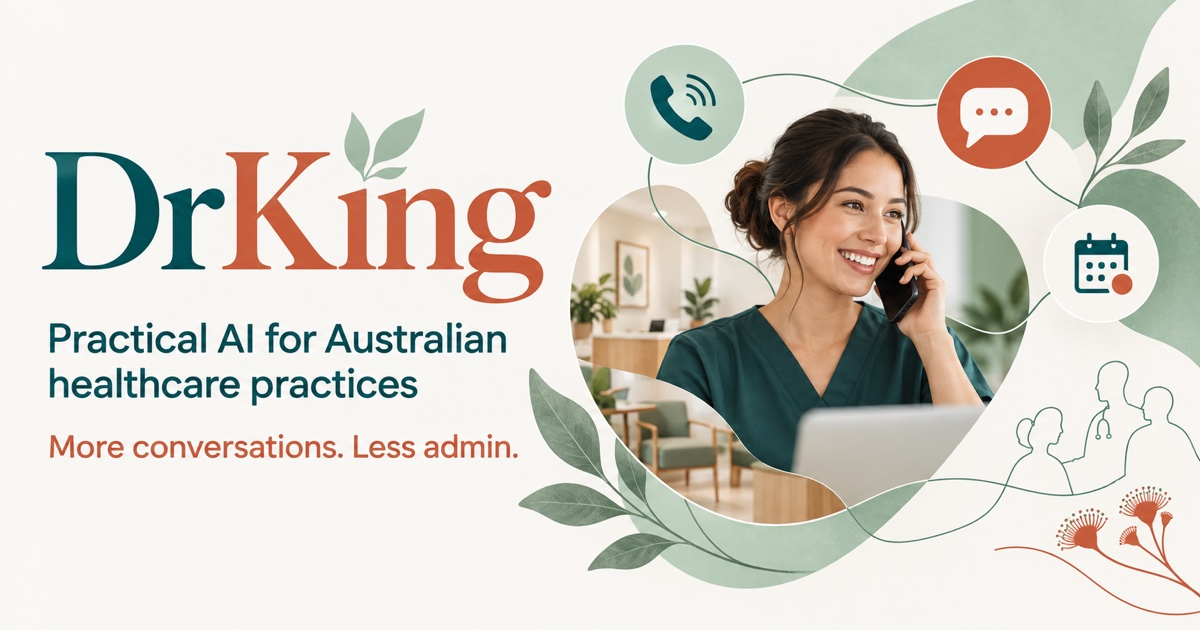
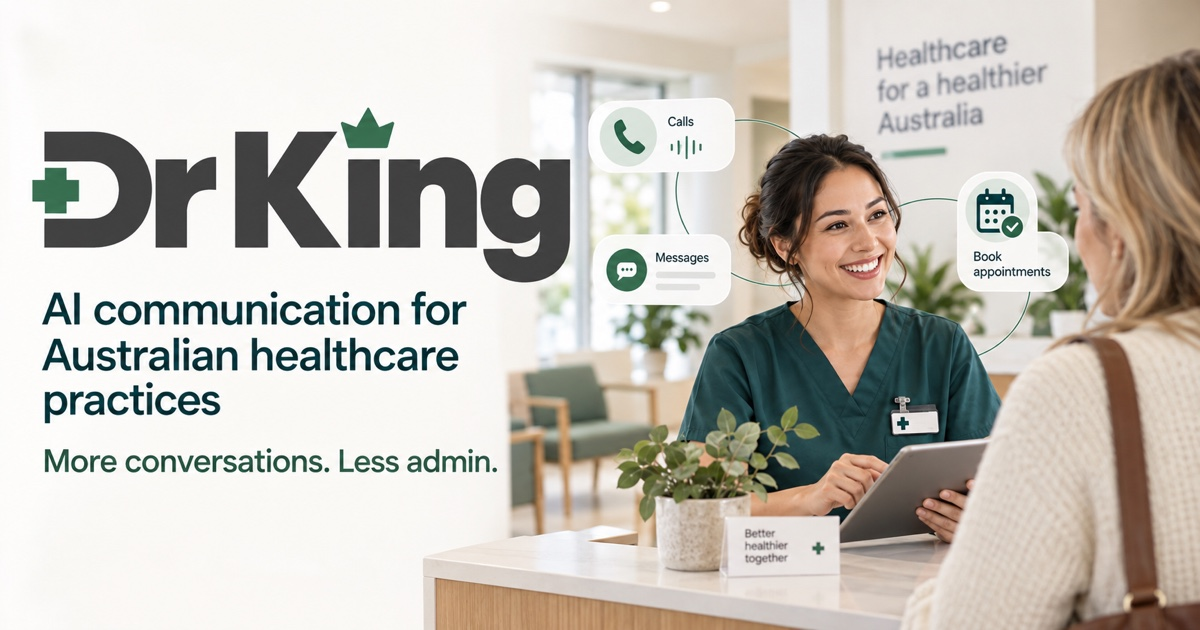
Refresh medical social sharing image

diff --git a/after-hours.html b/after-hours.html
@@ -50,10 +50,10 @@ header{padding:24px 0 0}.nav{display:flex;align-items:center;justify-content:spa
 <meta property="og:image:type" content="image/jpeg">
 <meta property="og:image:width" content="1200">
 <meta property="og:image:height" content="630">
-<meta property="og:image:alt" content="DrKing — Practical AI for Australian healthcare practices. More conversations. Less admin.">
+<meta property="og:image:alt" content="DrKing AI communication for Australian healthcare practices — a clinician welcoming a patient with calls, messages and appointment booking.">
 <meta name="twitter:card" content="summary_large_image">
 <meta name="twitter:image" content="https://drking.ai/assets/drking-social-share.jpg">
-<meta name="twitter:image:alt" content="DrKing — Practical AI for Australian healthcare practices. More conversations. Less admin.">
+<meta name="twitter:image:alt" content="DrKing AI communication for Australian healthcare practices — a clinician welcoming a patient with calls, messages and appointment booking.">
 <link rel="preconnect" href="https://fonts.googleapis.com">
 <link rel="preconnect" href="https://fonts.gstatic.com" crossorigin>
 <link href="https://fonts.googleapis.com/css2?family=Newsreader:ital,wght@0,300..600;1,300..600&amp;display=swap" rel="stylesheet">

diff --git a/appointment-reminders.html b/appointment-reminders.html
@@ -55,10 +55,10 @@ header{padding-top:24px;position:relative;z-index:20}.nav{width:min(1280px,calc(
 <meta property="og:image:type" content="image/jpeg">
 <meta property="og:image:width" content="1200">
 <meta property="og:image:height" content="630">
-<meta property="og:image:alt" content="DrKing — Practical AI for Australian healthcare practices. More conversations. Less admin.">
+<meta property="og:image:alt" content="DrKing AI communication for Australian healthcare practices — a clinician welcoming a patient with calls, messages and appointment booking.">
 <meta name="twitter:card" content="summary_large_image">
 <meta name="twitter:image" content="https://drking.ai/assets/drking-social-share.jpg">
-<meta name="twitter:image:alt" content="DrKing — Practical AI for Australian healthcare practices. More conversations. Less admin.">
+<meta name="twitter:image:alt" content="DrKing AI communication for Australian healthcare practices — a clinician welcoming a patient with calls, messages and appointment booking.">
 <link rel="preconnect" href="https://fonts.googleapis.com">
 <link rel="preconnect" href="https://fonts.gstatic.com" crossorigin>
 <link href="https://fonts.googleapis.com/css2?family=Newsreader:ital,wght@0,300..600;1,300..600&amp;display=swap" rel="stylesheet">

diff --git a/index.html b/index.html
@@ -67,10 +67,10 @@ footer{background:#EBEEE6;padding:43px 0 24px}.footer-top{display:grid;grid-temp
 <meta property="og:image:type" content="image/jpeg">
 <meta property="og:image:width" content="1200">
 <meta property="og:image:height" content="630">
-<meta property="og:image:alt" content="DrKing — Practical AI for Australian healthcare practices. More conversations. Less admin.">
+<meta property="og:image:alt" content="DrKing AI communication for Australian healthcare practices — a clinician welcoming a patient with calls, messages and appointment booking.">
 <meta name="twitter:card" content="summary_large_image">
 <meta name="twitter:image" content="https://drking.ai/assets/drking-social-share.jpg">
-<meta name="twitter:image:alt" content="DrKing — Practical AI for Australian healthcare practices. More conversations. Less admin.">
+<meta name="twitter:image:alt" content="DrKing AI communication for Australian healthcare practices — a clinician welcoming a patient with calls, messages and appointment booking.">
 <link rel="preconnect" href="https://fonts.googleapis.com">
 <link rel="preconnect" href="https://fonts.gstatic.com" crossorigin>
 <link href="https://fonts.googleapis.com/css2?family=Newsreader:ital,wght@0,300..600;1,300..600&amp;display=swap" rel="stylesheet">

diff --git a/lead-management.html b/lead-management.html
@@ -70,10 +70,10 @@ header{position:relative;height:119px;z-index:30}.nav-shell{position:absolute;to
 <meta property="og:image:type" content="image/jpeg">
 <meta property="og:image:width" content="1200">
 <meta property="og:image:height" content="630">
-<meta property="og:image:alt" content="DrKing — Practical AI for Australian healthcare practices. More conversations. Less admin.">
+<meta property="og:image:alt" content="DrKing AI communication for Australian healthcare practices — a clinician welcoming a patient with calls, messages and appointment booking.">
 <meta name="twitter:card" content="summary_large_image">
 <meta name="twitter:image" content="https://drking.ai/assets/drking-social-share.jpg">
-<meta name="twitter:image:alt" content="DrKing — Practical AI for Australian healthcare practices. More conversations. Less admin.">
+<meta name="twitter:image:alt" content="DrKing AI communication for Australian healthcare practices — a clinician welcoming a patient with calls, messages and appointment booking.">
 <link rel="preconnect" href="https://fonts.googleapis.com">
 <link rel="preconnect" href="https://fonts.gstatic.com" crossorigin>
 <link href="https://fonts.googleapis.com/css2?family=Newsreader:ital,wght@0,300..600;1,300..600&amp;display=swap" rel="stylesheet">

diff --git a/multi-location-chaos.html b/multi-location-chaos.html
@@ -53,10 +53,10 @@ header{position:relative;z-index:20;padding-top:25px}.nav{max-width:1240px;margi
 <meta property="og:image:type" content="image/jpeg">
 <meta property="og:image:width" content="1200">
 <meta property="og:image:height" content="630">
-<meta property="og:image:alt" content="DrKing — Practical AI for Australian healthcare practices. More conversations. Less admin.">
+<meta property="og:image:alt" content="DrKing AI communication for Australian healthcare practices — a clinician welcoming a patient with calls, messages and appointment booking.">
 <meta name="twitter:card" content="summary_large_image">
 <meta name="twitter:image" content="https://drking.ai/assets/drking-social-share.jpg">
-<meta name="twitter:image:alt" content="DrKing — Practical AI for Australian healthcare practices. More conversations. Less admin.">
+<meta name="twitter:image:alt" content="DrKing AI communication for Australian healthcare practices — a clinician welcoming a patient with calls, messages and appointment booking.">
 <link rel="preconnect" href="https://fonts.googleapis.com">
 <link rel="preconnect" href="https://fonts.gstatic.com" crossorigin>
 <link href="https://fonts.googleapis.com/css2?family=Newsreader:ital,wght@0,300..600;1,300..600&amp;display=swap" rel="stylesheet">

diff --git a/vs-call-answering.html b/vs-call-answering.html
@@ -67,10 +67,10 @@ header{position:relative;z-index:20;padding-top:25px}.nav{max-width:1280px;width
 <meta property="og:image:type" content="image/jpeg">
 <meta property="og:image:width" content="1200">
 <meta property="og:image:height" content="630">
-<meta property="og:image:alt" content="DrKing — Practical AI for Australian healthcare practices. More conversations. Less admin.">
+<meta property="og:image:alt" content="DrKing AI communication for Australian healthcare practices — a clinician welcoming a patient with calls, messages and appointment booking.">
 <meta name="twitter:card" content="summary_large_image">
 <meta name="twitter:image" content="https://drking.ai/assets/drking-social-share.jpg">
-<meta name="twitter:image:alt" content="DrKing — Practical AI for Australian healthcare practices. More conversations. Less admin.">
+<meta name="twitter:image:alt" content="DrKing AI communication for Australian healthcare practices — a clinician welcoming a patient with calls, messages and appointment booking.">
 <link rel="preconnect" href="https://fonts.googleapis.com">
 <link rel="preconnect" href="https://fonts.gstatic.com" crossorigin>
 <link href="https://fonts.googleapis.com/css2?family=Newsreader:ital,wght@0,300..600;1,300..600&amp;display=swap" rel="stylesheet">

diff --git a/allied-health.html b/allied-health.html
@@ -175,10 +175,10 @@
 <meta property="og:image:type" content="image/jpeg">
 <meta property="og:image:width" content="1200">
 <meta property="og:image:height" content="630">
-<meta property="og:image:alt" content="DrKing — Practical AI for Australian healthcare practices. More conversations. Less admin.">
+<meta property="og:image:alt" content="DrKing AI communication for Australian healthcare practices — a clinician welcoming a patient with calls, messages and appointment booking.">
 <meta name="twitter:card" content="summary_large_image">
 <meta name="twitter:image" content="https://drking.ai/assets/drking-social-share.jpg">
-<meta name="twitter:image:alt" content="DrKing — Practical AI for Australian healthcare practices. More conversations. Less admin.">
+<meta name="twitter:image:alt" content="DrKing AI communication for Australian healthcare practices — a clinician welcoming a patient with calls, messages and appointment booking.">
 <link rel="preconnect" href="https://fonts.googleapis.com">
 <link rel="preconnect" href="https://fonts.gstatic.com" crossorigin>
 <link href="https://fonts.googleapis.com/css2?family=Newsreader:ital,wght@0,300..600;1,300..600&amp;display=swap" rel="stylesheet">

diff --git a/about.html b/about.html
@@ -47,10 +47,10 @@
 <meta property="og:image:type" content="image/jpeg">
 <meta property="og:image:width" content="1200">
 <meta property="og:image:height" content="630">
-<meta property="og:image:alt" content="DrKing — Practical AI for Australian healthcare practices. More conversations. Less admin.">
+<meta property="og:image:alt" content="DrKing AI communication for Australian healthcare practices — a clinician welcoming a patient with calls, messages and appointment booking.">
 <meta name="twitter:card" content="summary_large_image">
 <meta name="twitter:image" content="https://drking.ai/assets/drking-social-share.jpg">
-<meta name="twitter:image:alt" content="DrKing — Practical AI for Australian healthcare practices. More conversations. Less admin.">
+<meta name="twitter:image:alt" content="DrKing AI communication for Australian healthcare practices — a clinician welcoming a patient with calls, messages and appointment booking.">
 <link rel="preconnect" href="https://fonts.googleapis.com">
 <link rel="preconnect" href="https://fonts.gstatic.com" crossorigin>
 <link href="https://fonts.googleapis.com/css2?family=Newsreader:ital,wght@0,300..600;1,300..600&amp;display=swap" rel="stylesheet">

diff --git a/admin-overhead.html b/admin-overhead.html
@@ -52,10 +52,10 @@
 <meta property="og:image:type" content="image/jpeg">
 <meta property="og:image:width" content="1200">
 <meta property="og:image:height" content="630">
-<meta property="og:image:alt" content="DrKing — Practical AI for Australian healthcare practices. More conversations. Less admin.">
+<meta property="og:image:alt" content="DrKing AI communication for Australian healthcare practices — a clinician welcoming a patient with calls, messages and appointment booking.">
 <meta name="twitter:card" content="summary_large_image">
 <meta name="twitter:image" content="https://drking.ai/assets/drking-social-share.jpg">
-<meta name="twitter:image:alt" content="DrKing — Practical AI for Australian healthcare practices. More conversations. Less admin.">
+<meta name="twitter:image:alt" content="DrKing AI communication for Australian healthcare practices — a clinician welcoming a patient with calls, messages and appointment booking.">
 <link rel="preconnect" href="https://fonts.googleapis.com">
 <link rel="preconnect" href="https://fonts.gstatic.com" crossorigin>
 <link href="https://fonts.googleapis.com/css2?family=Newsreader:ital,wght@0,300..600;1,300..600&amp;display=swap" rel="stylesheet">

diff --git a/aged-care.html b/aged-care.html
@@ -47,10 +47,10 @@
 <meta property="og:image:type" content="image/jpeg">
 <meta property="og:image:width" content="1200">
 <meta property="og:image:height" content="630">
-<meta property="og:image:alt" content="DrKing — Practical AI for Australian healthcare practices. More conversations. Less admin.">
+<meta property="og:image:alt" content="DrKing AI communication for Australian healthcare practices — a clinician welcoming a patient with calls, messages and appointment booking.">
 <meta name="twitter:card" content="summary_large_image">
 <meta name="twitter:image" content="https://drking.ai/assets/drking-social-share.jpg">
-<meta name="twitter:image:alt" content="DrKing — Practical AI for Australian healthcare practices. More conversations. Less admin.">
+<meta name="twitter:image:alt" content="DrKing AI communication for Australian healthcare practices — a clinician welcoming a patient with calls, messages and appointment booking.">
 <link rel="preconnect" href="https://fonts.googleapis.com">
 <link rel="preconnect" href="https://fonts.gstatic.com" crossorigin>
 <link href="https://fonts.googleapis.com/css2?family=Newsreader:ital,wght@0,300..600;1,300..600&amp;display=swap" rel="stylesheet">

diff --git a/ai-chat.html b/ai-chat.html
@@ -50,10 +50,10 @@
 <meta property="og:image:type" content="image/jpeg">
 <meta property="og:image:width" content="1200">
 <meta property="og:image:height" content="630">
-<meta property="og:image:alt" content="DrKing — Practical AI for Australian healthcare practices. More conversations. Less admin.">
+<meta property="og:image:alt" content="DrKing AI communication for Australian healthcare practices — a clinician welcoming a patient with calls, messages and appointment booking.">
 <meta name="twitter:card" content="summary_large_image">
 <meta name="twitter:image" content="https://drking.ai/assets/drking-social-share.jpg">
-<meta name="twitter:image:alt" content="DrKing — Practical AI for Australian healthcare practices. More conversations. Less admin.">
+<meta name="twitter:image:alt" content="DrKing AI communication for Australian healthcare practices — a clinician welcoming a patient with calls, messages and appointment booking.">
 <link rel="preconnect" href="https://fonts.googleapis.com">
 <link rel="preconnect" href="https://fonts.gstatic.com" crossorigin>
 <link href="https://fonts.googleapis.com/css2?family=Newsreader:ital,wght@0,300..600;1,300..600&amp;display=swap" rel="stylesheet">

diff --git a/ai-voice-receptionist.html b/ai-voice-receptionist.html
@@ -59,10 +59,10 @@
 <meta property="og:image:type" content="image/jpeg">
 <meta property="og:image:width" content="1200">
 <meta property="og:image:height" content="630">
-<meta property="og:image:alt" content="DrKing — Practical AI for Australian healthcare practices. More conversations. Less admin.">
+<meta property="og:image:alt" content="DrKing AI communication for Australian healthcare practices — a clinician welcoming a patient with calls, messages and appointment booking.">
 <meta name="twitter:card" content="summary_large_image">
 <meta name="twitter:image" content="https://drking.ai/assets/drking-social-share.jpg">
-<meta name="twitter:image:alt" content="DrKing — Practical AI for Australian healthcare practices. More conversations. Less admin.">
+<meta name="twitter:image:alt" content="DrKing AI communication for Australian healthcare practices — a clinician welcoming a patient with calls, messages and appointment booking.">
 <link rel="preconnect" href="https://fonts.googleapis.com">
 <link rel="preconnect" href="https://fonts.gstatic.com" crossorigin>
 <link href="https://fonts.googleapis.com/css2?family=Newsreader:ital,wght@0,300..600;1,300..600&amp;display=swap" rel="stylesheet">
